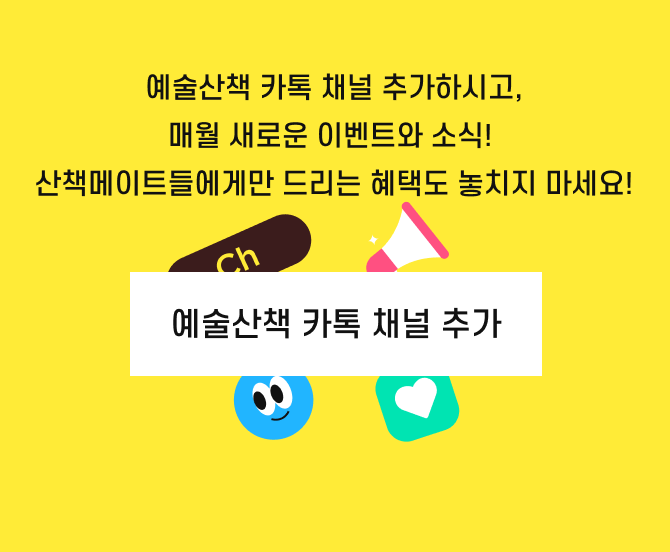
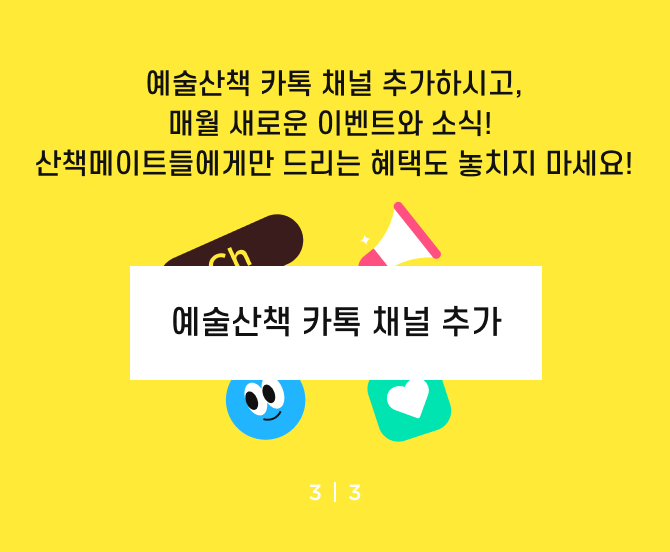
예술산책메인 - 메인비주얼 로테이트

diff --git a/artwalk/html/index.html b/artwalk/html/index.html
@@ -153,6 +153,67 @@
             <!-- container -->
             <div id="container" class="container main_container">
                 <div id="content" class="content">
+                    <!-- 메인비주얼 -->
+                    <div class="swiper art_main_visual"><!-- D: PC에서는 3개노출 모바일에서는 자동크기 -->
+                        <div class="swiper-wrapper">
+                            <a href="#" class="swiper-slide" title="제이디 차 상세페이지로 이동"> 
+                                <div class="art_v_img"><img src="../resources/images/main/art_main_visual01.jpg"></div>
+                                
+                                <div class="art_v_guide">
+                                    <div class="art_v_guide_sub">
+                                        <p class="art_v_tit">극단적으로 복잡하나<br>매우 우아하게 설계된</p>
+                                        <p class="art_v_desc">아시아 최초 프라하 오리지널 아시아 최초<br>몰입형 멀티미디어 전시</p>
+                                    </div>
+                                </div>
+                            </a>
+                            <a href="#" class="swiper-slide" title="제이디 차 상세페이지로 이동"> 
+                                <div class="art_v_img"><img src="../resources/images/main/art_main_visual02.jpg"></div>
+                                
+                                <div class="art_v_guide">
+                                    <div class="art_v_guide_sub">
+                                        <p class="art_v_tit">알폰스 무하<br>이모션 인 서울</p>
+                                        <p class="art_v_desc">아시아 최초 프라하 오리지널 아시아 최초 <br>몰입형 멀티미디어 전시</p>
+                                    </div>
+                                </div>
+                            </a>
+                            <a href="#" class="swiper-slide" title="제이디 차 상세페이지로 이동"> 
+                                <div class="art_v_img"><img src="../resources/images/main/art_main_visual03.jpg"></div>
+                                
+                                <div class="art_v_guide">
+                                    <div class="art_v_guide_sub">
+                                        <p class="art_v_tit">알폰스 무하<br>이모션 인 서울</p>
+                                        <p class="art_v_desc">아시아 최초 프라하 오리지널 아시아 최초 <br>몰입형 멀티미디어 전시</p>
+                                    </div>
+                                </div>
+                            </a>
+                            <a href="#" class="swiper-slide" title="제이디 차 상세페이지로 이동"> 
+                                <div class="art_v_img"><img src="../resources/images/main/art_main_visual04.jpg"></div>
+                                
+                                <div class="art_v_guide">
+                                    <div class="art_v_guide_sub">
+                                        <p class="art_v_tit">알폰스 무하<br>이모션 인 서울</p>
+                                        <p class="art_v_desc">아시아 최초 프라하 오리지널 아시아 최초 <br>몰입형 멀티미디어 전시</p>
+                                    </div>
+                                </div>
+                            </a>
+                            <a href="#" class="swiper-slide" title="제이디 차 상세페이지로 이동"> 
+                                <div class="art_v_img"><img src="../resources/images/main/art_main_visual05.jpg"></div>
+                                
+                                <div class="art_v_guide">
+                                    <div class="art_v_guide_sub">
+                                        <p class="art_v_tit">알폰스 무하<br>이모션 인 서울</p>
+                                        <p class="art_v_desc">아시아 최초 프라하 오리지널 아시아 최초 <br>몰입형 멀티미디어 전시</p>
+                                    </div>
+                                </div>
+                            </a>
+                        </div>
+                        <div class="btn_move btn_next"><img src="../resources/images/main/main_visual_next.png" alt="다음"></div>
+                        <div class="btn_move btn_prev"><img src="../resources/images/main/main_visual_prev.png" alt="이전"></div>
+
+                        <div class="rotate_txt"><img src="../resources/images/main/img_main_visual_rotate.png" alt="exhibition of the month"></div>
+                    </div>
+                    <!-- //메인비주얼 -->
+
                     <!-- 전시정보 -->
                     <div class="main_section ex_info">
                         <div class="cont_inner">
@@ -571,12 +632,12 @@
                                         <img class="mo_img" src="../resources/images/img-obs01-mo.png" alt="산책 메이트 신청하시고 다양한 프로그램 참여 혜택을 누리세요!">
                                     </a>
                                     <a href="#none" class="swiper-slide ban01" target="_blank" title="바자 아트 인스타그램으로 링크 이동 새창">
-                                        <img class="pc_img" src="../resources/images/img-obs02.png" alt="혹시 예술산책에서 보고 싶은 전시가 있으신가요?">
-                                        <img class="mo_img" src="../resources/images/img-obs01-mo.png" alt="혹시 예술산책에서 보고 싶은 전시가 있으신가요?">
+                                        <img class="pc_img" src="../resources/images/img-obs02.png" alt="아트 바자 인스타그램 팔로우 신청하시고 문화,예술,패션계의 다양한 소식을 산책하듯 가볍게 즐겨보세요!">
+                                        <img class="mo_img" src="../resources/images/img-obs02-mo.png" alt="아트 바자 인스타그램 팔로우 신청하시고 문화,예술,패션계의 다양한 소식을 산책하듯 가볍게 즐겨보세요!">
                                     </a>
                                     <a href="#none" class="swiper-slide ban01" target="_blank" title="예술산책 카톡채널 추가 새창">
-                                        <img class="pc_img" src="../resources/images/img-obs03.png" alt="예술산책 카톡 채널 추가하시고, 매월 새로운 이벤트와 소식!">
-                                        <img class="mo_img" src="../resources/images/img-obs03-mo.png" alt="예술산책 카톡 채널 추가하시고, 매월 새로운 이벤트와 소식!">
+                                        <img class="pc_img" src="../resources/images/img-obs03.png" alt="예술산책 카톡 채널 추가하시고, 매월 새로운 이벤트와 소식! 산책메이트들에게만 드리는 혜택도 놓치지 마세요!">
+                                        <img class="mo_img" src="../resources/images/img-obs03-mo.png" alt="예술산책 카톡 채널 추가하시고, 매월 새로운 이벤트와 소식! 산책메이트들에게만 드리는 혜택도 놓치지 마세요!">
                                     </a>
                                 </div>
                                 <div class="swiper-pagination"></div>

diff --git a/artwalk/resources/css/main.css b/artwalk/resources/css/main.css
@@ -2,7 +2,33 @@
 .main_container{padding-bottom: 180px;}
 .main_container .main_section{overflow: hidden;margin-top: 120px;}
 
-/* 전시정보 */
+/* 예술산책 메인비주얼 */
+.art_main_visual{position: relative;overflow: hidden;}
+.art_main_visual .swiper-slide {display: flex;height: 100vh;}
+.art_main_visual .art_v_img {width: 100%;}
+.art_main_visual .art_v_img img {height: 100%;object-fit: cover;}
+.art_main_visual .art_v_guide {display: flex;align-items: center;width: 100%;}
+.art_main_visual .art_v_tit {color: #FFF;font-size: 36px;font-weight: 600;line-height: 48px;}
+.art_main_visual .art_v_desc {margin-top: 25px;color: #FFF;font-size: 18px;font-weight: 200;line-height: 24px;}
+.art_main_visual .swiper-slide:nth-of-type(2n+1){background-color: #21B5FF;}
+.art_main_visual .swiper-slide:nth-of-type(2n+2){background-color: #FF5081;}
+.art_main_visual .swiper-slide:nth-of-type(2n+1) .art_v_guide {padding-left: 100px;}
+.art_main_visual .swiper-slide:nth-of-type(2n+2) .art_v_guide {padding-right: 100px; text-align: right;}
+.art_main_visual .btn_move {position: absolute;top: 50%;z-index: 1;width: 48px;transform: translateY(-50%);cursor: pointer;opacity: 0.6;}
+.art_main_visual .btn_next {right: 80px;}
+.art_main_visual .btn_prev {left: 80px;}
+.art_main_visual .rotate_txt {position: absolute;top: 175px;left: calc(50% + 40px);z-index: 1;width: 160px;animation: rotate360 5s linear infinite;}
+
+@keyframes rotate360 {
+    0% {
+        transform: rotate(0deg);
+    }
+    100% {
+        transform: rotate(360deg);
+    }
+}
+
+/* 전시정보 */ 
 .main_container .ex_info .cont_inner{position: relative;}
 .main_container .ex_info .swiper_pc_3_mo_auto{overflow: hidden;}
 .main_container .ex_info .swiper_pc_3_mo_auto .swiper-slide{position: relative;}
@@ -21,7 +47,7 @@
 .main_container .ex_info .ex_top_flag{display: flex;}
 .main_container .ex_info .btn_wish{width: 28px;height: 28px;background: url(../images/ico_heart_like.svg) 0/100%;}
 .main_container .ex_info .btn_wish.on{background-image: url(../images/ico_heart_like_on.svg);}
-.main_container .ex_info .btn_move {position: absolute;top: 50%;transform: translateY(-50%);width: 48px;cursor: pointer;}
+.main_container .ex_info .btn_move {position: absolute;top: 451px;width: 48px;cursor: pointer;opacity: 0.6;}
 .main_container .ex_info .button_prev{left: -48px;}
 .main_container .ex_info .button_next{right: -48px;}
 
